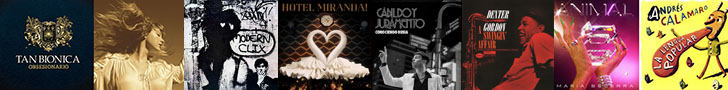
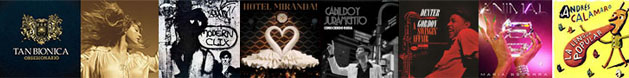
Add files via upload

diff --git a/anuncio.html b/anuncio.html
@@ -1,0 +1,113 @@
+<!doctype html> 
+<html lang="es">
+<head>
+<meta charset="utf-8">
+<meta name="viewport" content="width=device-width, initial-scale=1.0">
+<title>Anuncio</title>
+<style> 
+	/* Estilos generales */
+	body {
+		margin: 0;
+	}
+
+	.anuncio {
+		display: flex;
+		align-items: center;
+		justify-content: space-between;
+		width: 100%;
+		max-width: 1200px;
+		background-color: #fff;
+		box-shadow: 0 4px 8px rgba(0, 0, 0, 0.1);
+		padding: 10px;
+		gap:1px;
+	}
+
+	/* Imagen del anuncio */
+	.img {
+		width: 30%; /* Imagen ocupa el 30% del espacio en pantallas grandes */
+		height: auto;
+	}
+
+	/* Estilo del texto */
+	.texto {
+		font-size: 24px;
+		text-align: center;
+		margin: 0 20px;
+	}
+
+	/* Estilo del botón */
+	.cta-button {
+		padding: 5px 10px;
+		background-color: #8A2BE2;
+		color: white;
+		border: none;
+		border-radius: 5px;
+		cursor: pointer;
+		transition: background-color 0.3s;
+	}
+
+	.cta-button:hover {
+		background-color: #7B68EE;
+	}
+
+	/* Estilos para pantallas grandes */
+	@media (max-width: 769px) {
+		.anuncio {
+			flex-direction: row;
+		}
+
+		.img {
+			width: 90%;
+		}
+
+		.texto {
+			font-size: 24px;
+		}
+
+		.cta-button {
+			width: auto;
+		}
+	}
+
+	/* Estilos para móviles */
+	@media (max-width: 480px) {
+		.anuncio {
+			align-items: center; /* Centra los elementos */
+			padding: 0; /* Elimina el padding adicional */
+			gap: 0; /* Asegura que no haya espacio extra entre elementos */
+		}
+
+		.img {
+			width: 100%;
+			margin-bottom: 0; /* Elimina el espacio inferior */
+		}
+
+		.texto {
+			font-size: 20px;
+			margin: 0; /* Elimina márgenes extra en el texto */
+			padding: 0; /* Elimina padding si hay */
+		}
+
+		.cta-button {
+			width: 100%; /* Botón ocupa todo el ancho en móviles */
+			margin: 0; /* Elimina márgenes */
+			border-radius: 0; /* Alinea los bordes del botón al contenedor */
+		}
+	}
+</style>
+</head>
+
+<body>
+	<div class="anuncio">
+		<picture>
+			<source media="(max-width: 480px)" srcset="anuncioc.jpg"> 
+			<img src="anunciog.jpg" class="img" alt="Imagen del anuncio">
+		</picture>
+		<h1 class="texto">MUSICALIZATE</h1>
+		<a href="index.html" target="_blank"> 
+			<button class="cta-button">Descubre más</button>
+		</a>
+	</div>
+</body>
+</html>
+

diff --git a/estilos.css b/estilos.css
@@ -390,18 +390,16 @@ footer {
 	flex-direction: column;
 	gap: 1.5em;
 	background-color: #0f2f76;
-	width: 50%;
 	padding: 20px;
-	border: 1px solid #000; /* Borde de 1px */
-	border-radius: 10px;
 	box-shadow: 0 4px 8px rgba(0, 0, 0, 0.1);
 	text-align: center;
 	width: 300px;
+	height: 200px; /* Alto fijo del div */
+	border: 1px solid #000;
+	border-radius: 10px;
+	margin: auto;
 }
-.fo{
-	justify-content: center;
-	align-items: center;
-}
+
 
 .recomend {
 	font-size: 24px;
@@ -463,6 +461,10 @@ iframe {
 
 .cta-button:hover {
 	background-color: #45a049;
+}
+.anun{ 
+width: 728px;
+height: 90px;
 }
 @media(max-width:600px){
 	.h1 {
@@ -625,5 +627,18 @@ iframe {
 	}
 	.slide{
 		position: inherit;
+	}
+	  .recomend {
+        font-size: 20px; /* Disminuir tamaño de fuente en pantallas pequeñas */
+    }
+
+    .form {
+        width: 95%; /* Ancho más flexible en pantallas pequeñas */
+        padding: 15px; /* Reduce el padding */
+        border-radius: 8px; /* Ajusta el borde si es necesario */
+    }
+	.anun{
+		width: 300px;
+		height: 600px;
 	}
 }

diff --git a/index.html b/index.html
@@ -120,12 +120,6 @@
 
 </main>
 	<footer> 
-	<div class="anuncio">
-	<iframe src="anunciog.jpg" width="100%"  name="marco" frameborder="0" scrolling="no"></iframe>
-		<h1 class="texto">MUSICALIZATE</h1>
-		<a href="index.html"> 
-		<button class="cta-button"> Descubre más</button></a>
-		</div>
 		  <div class="footerx">
            <p class="footert">MUSICALIZÁTE</p>
             <div class="app">
@@ -147,7 +141,7 @@
                 </a>
             </div>
         </div>
-		<p> Terminos y Condiciones </p>
+	<iframe src="anuncio.html" name="marco" frameborder="0" scrolling="no" class="anun"></iframe>
 	</footer>
 	<script src="javascript.js"> </script>
 </body>

diff --git a/p4.html b/p4.html
@@ -59,12 +59,10 @@
 	<div class="fo">
         <form method="post" action="gracias.html" class="form">
         <h1 class="recomend"> Recomendá una Canción</h1>
-	   <p><strong>NOMBRE</strong>
-		<input type="text" name="nombre"></p>
+	   <p><strong>RECOMENDACIÓN</strong>
+		<input type="text" name="recomend"></p>
 		<p><strong>EMAIL</strong>
 		<input type="email" name="email"></p>
-		<p><strong>RECOMENDACIÓN</strong>
-		<input type="text" name="recomend"></p>	
 	<button type="submit"> ENVIAR</button>
         </form>
    </div>
